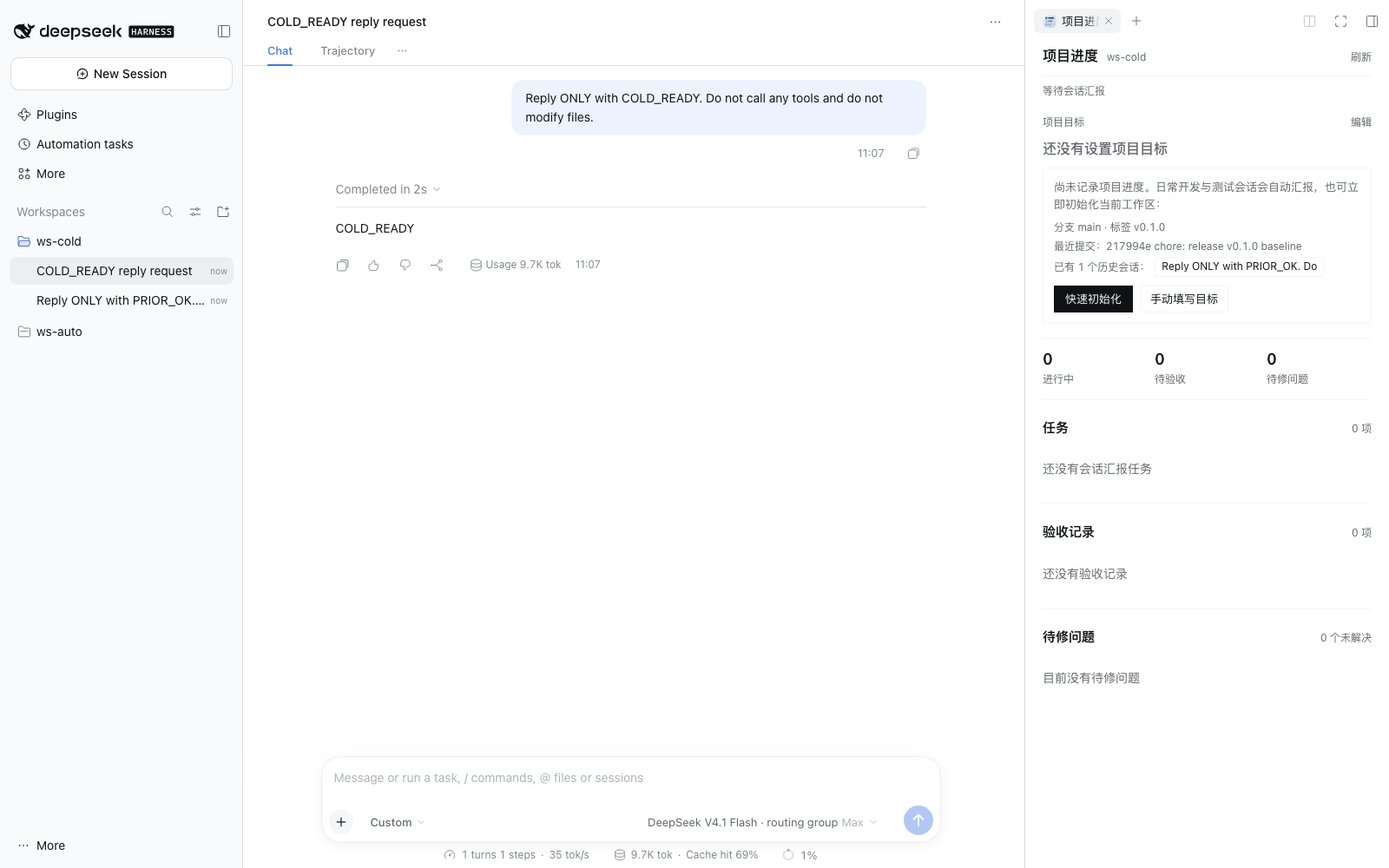
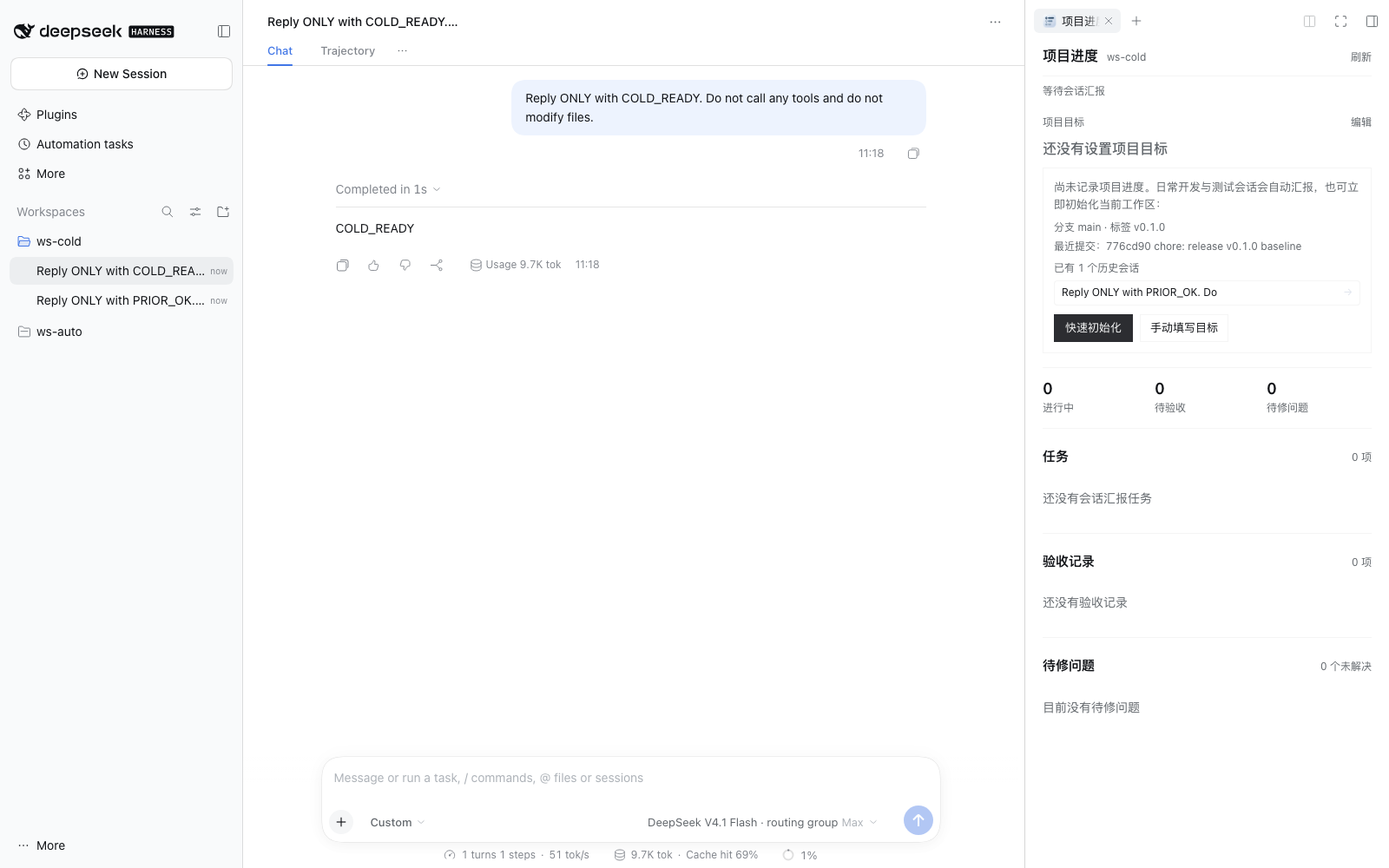
fix(ui): render historical sessions as expandable vertical list

diff --git a/plugin/lib/client.js b/plugin/lib/client.js
@@ -3,7 +3,7 @@ window.__ModuleLoader__.load({
   factory: (require) => {
     var module = { exports: {} };
     var exports = module.exports;
-    const STYLE_CSS = ".sl-root {\n  --slate-bg: var(--dsw-alias-bg-base, #ffffff);\n  --slate-surface: var(--dsw-alias-bg-layer-1, #f6f6f6);\n  --slate-surface-hover: var(--dsw-alias-bg-layer-2, #ededed);\n  --slate-ink: var(--dsw-alias-label-primary, #1f2328);\n  --slate-muted: var(--dsw-alias-label-secondary, #656d76);\n  --slate-dimmed: var(--dsw-alias-label-dimmed, #8b9199);\n  --slate-border: var(--dsw-alias-border-l1, #e5e5e5);\n  --slate-danger: var(--dsw-alias-state-error-primary, #b4534d);\n  --slate-warn: var(--dsw-alias-state-warn-primary, #a76d22);\n\n  box-sizing: border-box;\n  height: 100%;\n  overflow-y: auto;\n  overflow-x: hidden;\n  background: var(--slate-bg);\n  color: var(--slate-ink);\n  padding: 16px 20px 28px;\n  font-family: var(--dsw-font-family, -apple-system, BlinkMacSystemFont, \"PingFang SC\", sans-serif);\n  font-size: max(14px, var(--dsh-content-font-size, 14px));\n  line-height: 1.5;\n  font-variant-numeric: tabular-nums;\n  color-scheme: inherit;\n}\n\n.sl-root *,\n.sl-root *::before,\n.sl-root *::after {\n  box-sizing: border-box;\n}\n\n.sl-root :where(button, input, textarea, select) {\n  font: inherit;\n  color: var(--slate-ink);\n}\n\n.sl-root button {\n  cursor: pointer;\n}\n\n.sl-root button:disabled {\n  cursor: not-allowed;\n  opacity: 0.55;\n}\n\n.sl-root button:focus-visible,\n.sl-root input:focus-visible,\n.sl-root textarea:focus-visible,\n.sl-root select:focus-visible {\n  outline: 2px solid var(--slate-ink);\n  outline-offset: 2px;\n}\n\n.sl-mast {\n  display: flex;\n  align-items: baseline;\n  gap: 10px;\n  padding-bottom: 10px;\n  border-bottom: 1px solid var(--slate-border);\n}\n\n.sl-mast-title {\n  margin: 0;\n  font-size: 16px;\n  font-weight: 600;\n  line-height: 1.35;\n}\n\n.sl-workspace-tag {\n  font-size: 12px;\n  color: var(--slate-muted);\n  max-width: 190px;\n  overflow: hidden;\n  text-overflow: ellipsis;\n  white-space: nowrap;\n}\n\n.sl-text-btn {\n  border: 0;\n  background: none;\n  padding: 2px 0;\n  font-size: 12px;\n  color: var(--slate-muted);\n  text-decoration: none;\n}\n\n.sl-text-btn:hover {\n  color: var(--slate-ink);\n  text-decoration: underline;\n  text-underline-offset: 3px;\n}\n\n.sl-mast .sl-refresh {\n  margin-left: auto;\n}\n\n.sl-notice {\n  margin-top: 8px;\n  font-size: 12px;\n  color: var(--slate-muted);\n}\n\n.sl-notice.is-error {\n  color: var(--slate-danger);\n  background: var(--slate-surface);\n  border-left: 2px solid var(--slate-danger);\n  padding: 6px 10px;\n}\n\n.sl-goal {\n  padding: 16px 0;\n}\n\n.sl-kicker {\n  display: flex;\n  align-items: center;\n  gap: 10px;\n  font-size: 12px;\n  color: var(--slate-muted);\n}\n\n.sl-kicker-actions {\n  margin-left: auto;\n  display: flex;\n  align-items: center;\n  gap: 12px;\n}\n\n.sl-goal-title {\n  margin: 8px 0 6px;\n  font-size: 16px;\n  font-weight: 600;\n  line-height: 1.45;\n  text-wrap: pretty;\n}\n\n.sl-goal-empty {\n  color: var(--slate-muted);\n  font-weight: 500;\n}\n\n.sl-criteria-list {\n  margin: 6px 0 0;\n  padding-left: 18px;\n  font-size: 14px;\n  line-height: 1.5;\n  color: var(--slate-muted);\n}\n\n.sl-criteria-list li + li {\n  margin-top: 3px;\n}\n\n.sl-bootstrap {\n  margin-top: 10px;\n  padding: 12px;\n  background: var(--slate-surface);\n  border: 1px solid var(--slate-border);\n}\n\n.sl-bootstrap-desc {\n  margin: 0 0 8px;\n  font-size: 13px;\n  line-height: 1.5;\n  color: var(--slate-muted);\n}\n\n.sl-bootstrap-meta {\n  display: flex;\n  flex-direction: column;\n  gap: 4px;\n  margin-bottom: 10px;\n  font-size: 12px;\n  line-height: 1.45;\n  color: var(--slate-muted);\n}\n\n.sl-bootstrap-sessions {\n  display: flex;\n  flex-wrap: wrap;\n  align-items: center;\n  gap: 6px;\n}\n\n.sl-session-chip {\n  display: inline-block;\n  vertical-align: middle;\n  max-width: 196px;\n  padding: 2px 7px;\n  border: 1px solid var(--slate-border);\n  border-radius: 4px;\n  background: var(--slate-bg);\n  color: var(--slate-ink);\n  font-size: 12px;\n  line-height: 1.4;\n  overflow: hidden;\n  text-overflow: ellipsis;\n  white-space: nowrap;\n  text-decoration: none;\n}\n\n.sl-session-chip:hover {\n  background: var(--slate-surface-hover);\n  border-color: var(--slate-muted);\n  color: var(--slate-ink);\n  text-decoration: none;\n}\n\n.sl-bootstrap-actions {\n  display: flex;\n  flex-wrap: wrap;\n  gap: 8px;\n}\n\n.sl-override-chip {\n  display: inline-block;\n  font-size: 12px;\n  color: var(--slate-warn);\n}\n\n.sl-summary {\n  display: grid;\n  grid-template-columns: repeat(3, 1fr);\n  gap: 8px;\n  padding: 13px 0 14px;\n  border-top: 1px solid var(--slate-border);\n  border-bottom: 1px solid var(--slate-border);\n}\n\n.sl-summary-item {\n  display: flex;\n  flex-direction: column;\n  gap: 2px;\n}\n\n.sl-summary-item strong {\n  font-size: 18px;\n  font-weight: 600;\n  line-height: 1.25;\n}\n\n.sl-summary-item span {\n  font-size: 12px;\n  color: var(--slate-muted);\n}\n\n.sl-focus {\n  padding: 14px 0;\n  border-bottom: 1px solid var(--slate-border);\n}\n\n.sl-focus-head {\n  display: flex;\n  align-items: center;\n  justify-content: space-between;\n  font-size: 12px;\n  color: var(--slate-muted);\n}\n\n.sl-focus-severity {\n  color: var(--slate-danger);\n  font-weight: 600;\n}\n\n.sl-focus-title {\n  margin: 6px 0 8px;\n  font-size: 14px;\n  line-height: 1.55;\n}\n\n.sl-focus-link {\n  border: 0;\n  background: none;\n  padding: 0;\n  font-size: 13px;\n  color: var(--slate-ink);\n  font-weight: 500;\n}\n\n.sl-focus-link:hover {\n  text-decoration: underline;\n  text-underline-offset: 3px;\n}\n\n.sl-latest {\n  display: flex;\n  flex-direction: column;\n  gap: 4px;\n  padding: 13px 0;\n  border-bottom: 1px solid var(--slate-border);\n}\n\n.sl-latest-label {\n  font-size: 12px;\n  color: var(--slate-muted);\n}\n\n.sl-latest-link {\n  border: 0;\n  background: none;\n  padding: 0;\n  text-align: left;\n  font-size: 14px;\n  font-weight: 600;\n  color: var(--slate-ink);\n}\n\n.sl-latest-link:hover {\n  text-decoration: underline;\n  text-underline-offset: 3px;\n}\n\n.sl-latest-evidence {\n  font-size: 12px;\n  line-height: 1.5;\n  color: var(--slate-muted);\n}\n\n.sl-section-head {\n  display: flex;\n  align-items: baseline;\n  margin: 20px 0 12px;\n}\n\n.sl-section-head h3 {\n  margin: 0;\n  font-size: 15px;\n  font-weight: 600;\n}\n\n.sl-section-count {\n  margin-left: auto;\n  font-size: 12px;\n  color: var(--slate-muted);\n}\n\n.sl-timeline {\n  border-left: 1px solid var(--slate-border);\n  margin-left: 5px;\n}\n\n.sl-task {\n  position: relative;\n  padding: 0 0 20px 20px;\n}\n\n.sl-task:last-child {\n  padding-bottom: 8px;\n}\n\n.sl-task::before {\n  content: \"\";\n  position: absolute;\n  left: -4px;\n  top: 7px;\n  width: 7px;\n  height: 7px;\n  border-radius: 50%;\n  background: var(--slate-dimmed);\n}\n\n.sl-task.is-done::before {\n  background: var(--slate-muted);\n}\n\n.sl-task.is-waiting::before {\n  background: var(--slate-bg);\n  border: 2px solid var(--slate-warn);\n  left: -5px;\n  top: 6px;\n}\n\n.sl-task.is-failed::before {\n  background: var(--slate-danger);\n}\n\n.sl-task.is-verified::before {\n  content: \"✓\";\n  display: grid;\n  place-items: center;\n  width: 13px;\n  height: 13px;\n  left: -7px;\n  top: 4px;\n  background: var(--slate-ink);\n  color: var(--slate-bg);\n  font-size: 9px;\n  font-weight: 700;\n  line-height: 1;\n}\n\n.sl-task-head {\n  display: flex;\n  align-items: flex-start;\n  gap: 10px;\n}\n\n.sl-task-head-main {\n  min-width: 0;\n  flex: 1;\n}\n\n.sl-task-title {\n  display: block;\n  width: 100%;\n  border: 0;\n  background: none;\n  padding: 0;\n  text-align: left;\n  font-size: 15px;\n  font-weight: 600;\n  line-height: 1.4;\n  color: var(--slate-ink);\n}\n\n.sl-task-title:hover {\n  text-decoration: underline;\n  text-decoration-thickness: 1px;\n  text-underline-offset: 4px;\n}\n\n.sl-task-meta {\n  display: flex;\n  flex-wrap: wrap;\n  align-items: center;\n  gap: 6px;\n  margin-top: 4px;\n  font-size: 12px;\n  line-height: 1.45;\n  color: var(--slate-muted);\n}\n\n.sl-status-warn {\n  color: var(--slate-warn);\n}\n\n.sl-status-danger {\n  color: var(--slate-danger);\n}\n\n.sl-status-verified {\n  color: var(--slate-ink);\n  font-weight: 500;\n}\n\n.sl-task-pct {\n  font-size: 16px;\n  font-weight: 500;\n  white-space: nowrap;\n  color: var(--slate-ink);\n}\n\n.sl-deliverable {\n  margin-top: 7px;\n  font-size: 14px;\n  line-height: 1.55;\n}\n\n.sl-deliverable-label {\n  font-size: 12px;\n  color: var(--slate-muted);\n  margin-right: 6px;\n}\n\n.sl-track {\n  height: 2px;\n  background: var(--slate-border);\n  margin-top: 10px;\n  overflow: hidden;\n}\n\n.sl-track-fill {\n  display: block;\n  height: 100%;\n  background: var(--slate-muted);\n  transition: width 0.2s ease;\n}\n\n.sl-task.is-verified .sl-track-fill {\n  background: var(--slate-ink);\n}\n\n.sl-task-actions {\n  display: flex;\n  flex-wrap: wrap;\n  gap: 12px;\n  margin-top: 9px;\n}\n\n.sl-editor {\n  margin: 12px 0 4px;\n  padding: 12px;\n  background: var(--slate-surface);\n  border: 1px solid var(--slate-border);\n}\n\n.sl-goal-editor {\n  margin: 12px 0;\n}\n\n.sl-editor-head {\n  display: flex;\n  align-items: center;\n  justify-content: space-between;\n  font-size: 13px;\n  font-weight: 500;\n  color: var(--slate-ink);\n  margin-bottom: 10px;\n}\n\n.sl-field {\n  display: block;\n  margin-bottom: 10px;\n  font-size: 12px;\n  color: var(--slate-muted);\n}\n\n.sl-field input[type=\"text\"],\n.sl-field textarea,\n.sl-field select {\n  display: block;\n  width: 100%;\n  margin-top: 5px;\n  padding: 7px 9px;\n  border: 1px solid var(--slate-border);\n  background: var(--slate-bg);\n  color: var(--slate-ink);\n  font-size: 14px;\n  line-height: 1.45;\n  border-radius: 0;\n}\n\n.sl-field textarea {\n  resize: vertical;\n}\n\n.sl-editor input[type=\"range\"] {\n  display: block;\n  width: 100%;\n  margin: 8px 0 12px;\n  accent-color: var(--slate-ink);\n}\n\n.sl-field-grid {\n  display: grid;\n  grid-template-columns: 74px 1fr;\n  gap: 8px;\n}\n\n.sl-editor-note {\n  font-size: 12px;\n  color: var(--slate-muted);\n  margin-top: 4px;\n}\n\n.sl-editor-actions {\n  display: flex;\n  justify-content: flex-end;\n  gap: 8px;\n  margin-top: 12px;\n}\n\n.sl-btn {\n  border: 1px solid var(--slate-border);\n  background: var(--slate-bg);\n  color: var(--slate-ink);\n  padding: 5px 11px;\n  font-size: 13px;\n}\n\n.sl-btn:hover {\n  background: var(--slate-surface-hover);\n}\n\n.sl-root .sl-btn-primary {\n  border: 1px solid var(--slate-ink);\n  background: var(--slate-ink);\n  color: var(--slate-bg);\n  padding: 5px 12px;\n  font-size: 13px;\n}\n\n.sl-btn-primary:hover {\n  opacity: 0.88;\n}\n\n.sl-section-rule {\n  border-top: 1px solid var(--slate-border);\n  margin-top: 16px;\n}\n\n.sl-list-row {\n  border-bottom: 1px solid var(--slate-border);\n}\n\n.sl-row-trigger {\n  display: grid;\n  grid-template-columns: auto 1fr auto;\n  align-items: baseline;\n  gap: 8px;\n  width: 100%;\n  padding: 10px 0;\n  border: 0;\n  background: none;\n  text-align: left;\n  font-size: 14px;\n  line-height: 1.45;\n}\n\n.sl-row-trigger:hover {\n  background: var(--slate-surface);\n}\n\n.sl-check-glyph {\n  font-weight: 600;\n  width: 16px;\n  text-align: center;\n}\n\n.sl-check.is-passed .sl-check-glyph {\n  color: var(--slate-ink);\n}\n\n.sl-check.is-failed .sl-check-glyph {\n  color: var(--slate-danger);\n}\n\n.sl-check.is-running .sl-check-glyph {\n  color: var(--slate-warn);\n}\n\n.sl-check.is-todo .sl-check-glyph {\n  color: var(--slate-muted);\n}\n\n.sl-row-label {\n  font-size: 12px;\n  color: var(--slate-muted);\n  white-space: nowrap;\n}\n\n.sl-issue-sev {\n  font-size: 12px;\n  font-weight: 600;\n}\n\n.sl-issue-sev.is-high {\n  color: var(--slate-danger);\n}\n\n.sl-issue-sev.is-low {\n  color: var(--slate-muted);\n}\n\n.sl-issue.is-resolved .sl-row-title {\n  color: var(--slate-muted);\n  text-decoration: line-through;\n}\n\n.sl-detail-panel {\n  padding: 4px 0 12px 24px;\n  font-size: 13px;\n  line-height: 1.6;\n  color: var(--slate-muted);\n}\n\n.sl-detail-meta {\n  display: flex;\n  flex-wrap: wrap;\n  gap: 10px;\n  margin-top: 6px;\n  font-size: 12px;\n  color: var(--slate-muted);\n}\n\n.sl-code-line {\n  margin: 6px 0;\n  padding: 6px 8px;\n  background: var(--slate-surface);\n  border-left: 2px solid var(--slate-border);\n  font-family: var(--dsh-font-family-code, ui-monospace, SFMono-Regular, Menlo, monospace);\n  font-size: 12px;\n  color: var(--slate-ink);\n  word-break: break-all;\n}\n\n.sl-empty {\n  padding: 14px 0;\n  font-size: 14px;\n  color: var(--slate-muted);\n}\n\n.sl-activity {\n  margin-top: 18px;\n  padding-top: 14px;\n  border-top: 1px solid var(--slate-border);\n}\n\n.sl-activity h3 {\n  margin: 0 0 10px;\n  font-size: 15px;\n  font-weight: 600;\n}\n\n.sl-activity-item {\n  padding: 0 0 8px 12px;\n  font-size: 13px;\n  line-height: 1.5;\n  color: var(--slate-muted);\n}\n\n@media (max-width: 340px) {\n  .sl-root {\n    padding: 14px;\n  }\n  .sl-workspace-tag {\n    display: none;\n  }\n  .sl-field-grid {\n    grid-template-columns: 1fr;\n  }\n}\n\n.sl-tab-title {\n  display: inline-flex;\n  align-items: center;\n  gap: 6px;\n  line-height: 1;\n}\n\n.sl-tab-icon {\n  width: 16px;\n  height: 16px;\n  flex: none;\n  display: block;\n  object-fit: contain;\n}\n\n.sl-tab-icon-dark {\n  display: none;\n}\n\nbody[data-ds-dark-theme] .sl-tab-icon-light {\n  display: none;\n}\n\nbody[data-ds-dark-theme] .sl-tab-icon-dark {\n  display: block;\n}\n";
+    const STYLE_CSS = ".sl-root {\n  --slate-bg: var(--dsw-alias-bg-base, #ffffff);\n  --slate-surface: var(--dsw-alias-bg-layer-1, #f6f6f6);\n  --slate-surface-hover: var(--dsw-alias-bg-layer-2, #ededed);\n  --slate-ink: var(--dsw-alias-label-primary, #1f2328);\n  --slate-muted: var(--dsw-alias-label-secondary, #656d76);\n  --slate-dimmed: var(--dsw-alias-label-dimmed, #8b9199);\n  --slate-border: var(--dsw-alias-border-l1, #e5e5e5);\n  --slate-danger: var(--dsw-alias-state-error-primary, #b4534d);\n  --slate-warn: var(--dsw-alias-state-warn-primary, #a76d22);\n\n  box-sizing: border-box;\n  height: 100%;\n  overflow-y: auto;\n  overflow-x: hidden;\n  background: var(--slate-bg);\n  color: var(--slate-ink);\n  padding: 16px 20px 28px;\n  font-family: var(--dsw-font-family, -apple-system, BlinkMacSystemFont, \"PingFang SC\", sans-serif);\n  font-size: max(14px, var(--dsh-content-font-size, 14px));\n  line-height: 1.5;\n  font-variant-numeric: tabular-nums;\n  color-scheme: inherit;\n}\n\n.sl-root *,\n.sl-root *::before,\n.sl-root *::after {\n  box-sizing: border-box;\n}\n\n.sl-root :where(button, input, textarea, select) {\n  font: inherit;\n  color: var(--slate-ink);\n}\n\n.sl-root button {\n  cursor: pointer;\n}\n\n.sl-root button:disabled {\n  cursor: not-allowed;\n  opacity: 0.55;\n}\n\n.sl-root button:focus-visible,\n.sl-root input:focus-visible,\n.sl-root textarea:focus-visible,\n.sl-root select:focus-visible {\n  outline: 2px solid var(--slate-ink);\n  outline-offset: 2px;\n}\n\n.sl-mast {\n  display: flex;\n  align-items: baseline;\n  gap: 10px;\n  padding-bottom: 10px;\n  border-bottom: 1px solid var(--slate-border);\n}\n\n.sl-mast-title {\n  margin: 0;\n  font-size: 16px;\n  font-weight: 600;\n  line-height: 1.35;\n}\n\n.sl-workspace-tag {\n  font-size: 12px;\n  color: var(--slate-muted);\n  max-width: 190px;\n  overflow: hidden;\n  text-overflow: ellipsis;\n  white-space: nowrap;\n}\n\n.sl-text-btn {\n  border: 0;\n  background: none;\n  padding: 2px 0;\n  font-size: 12px;\n  color: var(--slate-muted);\n  text-decoration: none;\n}\n\n.sl-text-btn:hover {\n  color: var(--slate-ink);\n  text-decoration: underline;\n  text-underline-offset: 3px;\n}\n\n.sl-mast .sl-refresh {\n  margin-left: auto;\n}\n\n.sl-notice {\n  margin-top: 8px;\n  font-size: 12px;\n  color: var(--slate-muted);\n}\n\n.sl-notice.is-error {\n  color: var(--slate-danger);\n  background: var(--slate-surface);\n  border-left: 2px solid var(--slate-danger);\n  padding: 6px 10px;\n}\n\n.sl-goal {\n  padding: 16px 0;\n}\n\n.sl-kicker {\n  display: flex;\n  align-items: center;\n  gap: 10px;\n  font-size: 12px;\n  color: var(--slate-muted);\n}\n\n.sl-kicker-actions {\n  margin-left: auto;\n  display: flex;\n  align-items: center;\n  gap: 12px;\n}\n\n.sl-goal-title {\n  margin: 8px 0 6px;\n  font-size: 16px;\n  font-weight: 600;\n  line-height: 1.45;\n  text-wrap: pretty;\n}\n\n.sl-goal-empty {\n  color: var(--slate-muted);\n  font-weight: 500;\n}\n\n.sl-criteria-list {\n  margin: 6px 0 0;\n  padding-left: 18px;\n  font-size: 14px;\n  line-height: 1.5;\n  color: var(--slate-muted);\n}\n\n.sl-criteria-list li + li {\n  margin-top: 3px;\n}\n\n.sl-bootstrap {\n  margin-top: 10px;\n  padding: 12px;\n  background: var(--slate-surface);\n  border: 1px solid var(--slate-border);\n}\n\n.sl-bootstrap-desc {\n  margin: 0 0 8px;\n  font-size: 13px;\n  line-height: 1.5;\n  color: var(--slate-muted);\n}\n\n.sl-bootstrap-meta {\n  display: flex;\n  flex-direction: column;\n  gap: 4px;\n  margin-bottom: 10px;\n  font-size: 12px;\n  line-height: 1.45;\n  color: var(--slate-muted);\n}\n\n.sl-bootstrap-sessions {\n  display: flex;\n  flex-direction: column;\n  gap: 6px;\n  margin-top: 4px;\n}\n\n.sl-bootstrap-sessions-head {\n  display: flex;\n  align-items: center;\n  justify-content: space-between;\n  gap: 8px;\n}\n\n.sl-bootstrap-sessions-list {\n  display: flex;\n  flex-direction: column;\n  gap: 4px;\n}\n\n.sl-bootstrap-sessions-list.is-expanded {\n  max-height: 210px;\n  overflow-y: auto;\n}\n\n.sl-session-chip {\n  display: flex;\n  align-items: center;\n  justify-content: space-between;\n  gap: 8px;\n  width: 100%;\n  padding: 5px 8px;\n  border: 1px solid var(--slate-border);\n  border-radius: 5px;\n  background: var(--slate-bg);\n  color: var(--slate-ink);\n  font-size: 12px;\n  line-height: 1.4;\n  text-align: left;\n  text-decoration: none;\n}\n\n.sl-session-chip-title {\n  flex: 1;\n  min-width: 0;\n  overflow: hidden;\n  text-overflow: ellipsis;\n  white-space: nowrap;\n}\n\n.sl-session-chip::after {\n  content: \"→\";\n  flex-shrink: 0;\n  color: var(--slate-dimmed);\n}\n\n.sl-session-chip:hover {\n  background: var(--slate-surface-hover);\n  border-color: var(--slate-muted);\n  color: var(--slate-ink);\n  text-decoration: none;\n}\n\n.sl-session-chip:hover::after {\n  color: var(--slate-ink);\n}\n\n.sl-bootstrap-actions {\n  display: flex;\n  flex-wrap: wrap;\n  gap: 8px;\n}\n\n.sl-override-chip {\n  display: inline-block;\n  font-size: 12px;\n  color: var(--slate-warn);\n}\n\n.sl-summary {\n  display: grid;\n  grid-template-columns: repeat(3, 1fr);\n  gap: 8px;\n  padding: 13px 0 14px;\n  border-top: 1px solid var(--slate-border);\n  border-bottom: 1px solid var(--slate-border);\n}\n\n.sl-summary-item {\n  display: flex;\n  flex-direction: column;\n  gap: 2px;\n}\n\n.sl-summary-item strong {\n  font-size: 18px;\n  font-weight: 600;\n  line-height: 1.25;\n}\n\n.sl-summary-item span {\n  font-size: 12px;\n  color: var(--slate-muted);\n}\n\n.sl-focus {\n  padding: 14px 0;\n  border-bottom: 1px solid var(--slate-border);\n}\n\n.sl-focus-head {\n  display: flex;\n  align-items: center;\n  justify-content: space-between;\n  font-size: 12px;\n  color: var(--slate-muted);\n}\n\n.sl-focus-severity {\n  color: var(--slate-danger);\n  font-weight: 600;\n}\n\n.sl-focus-title {\n  margin: 6px 0 8px;\n  font-size: 14px;\n  line-height: 1.55;\n}\n\n.sl-focus-link {\n  border: 0;\n  background: none;\n  padding: 0;\n  font-size: 13px;\n  color: var(--slate-ink);\n  font-weight: 500;\n}\n\n.sl-focus-link:hover {\n  text-decoration: underline;\n  text-underline-offset: 3px;\n}\n\n.sl-latest {\n  display: flex;\n  flex-direction: column;\n  gap: 4px;\n  padding: 13px 0;\n  border-bottom: 1px solid var(--slate-border);\n}\n\n.sl-latest-label {\n  font-size: 12px;\n  color: var(--slate-muted);\n}\n\n.sl-latest-link {\n  border: 0;\n  background: none;\n  padding: 0;\n  text-align: left;\n  font-size: 14px;\n  font-weight: 600;\n  color: var(--slate-ink);\n}\n\n.sl-latest-link:hover {\n  text-decoration: underline;\n  text-underline-offset: 3px;\n}\n\n.sl-latest-evidence {\n  font-size: 12px;\n  line-height: 1.5;\n  color: var(--slate-muted);\n}\n\n.sl-section-head {\n  display: flex;\n  align-items: baseline;\n  margin: 20px 0 12px;\n}\n\n.sl-section-head h3 {\n  margin: 0;\n  font-size: 15px;\n  font-weight: 600;\n}\n\n.sl-section-count {\n  margin-left: auto;\n  font-size: 12px;\n  color: var(--slate-muted);\n}\n\n.sl-timeline {\n  border-left: 1px solid var(--slate-border);\n  margin-left: 5px;\n}\n\n.sl-task {\n  position: relative;\n  padding: 0 0 20px 20px;\n}\n\n.sl-task:last-child {\n  padding-bottom: 8px;\n}\n\n.sl-task::before {\n  content: \"\";\n  position: absolute;\n  left: -4px;\n  top: 7px;\n  width: 7px;\n  height: 7px;\n  border-radius: 50%;\n  background: var(--slate-dimmed);\n}\n\n.sl-task.is-done::before {\n  background: var(--slate-muted);\n}\n\n.sl-task.is-waiting::before {\n  background: var(--slate-bg);\n  border: 2px solid var(--slate-warn);\n  left: -5px;\n  top: 6px;\n}\n\n.sl-task.is-failed::before {\n  background: var(--slate-danger);\n}\n\n.sl-task.is-verified::before {\n  content: \"✓\";\n  display: grid;\n  place-items: center;\n  width: 13px;\n  height: 13px;\n  left: -7px;\n  top: 4px;\n  background: var(--slate-ink);\n  color: var(--slate-bg);\n  font-size: 9px;\n  font-weight: 700;\n  line-height: 1;\n}\n\n.sl-task-head {\n  display: flex;\n  align-items: flex-start;\n  gap: 10px;\n}\n\n.sl-task-head-main {\n  min-width: 0;\n  flex: 1;\n}\n\n.sl-task-title {\n  display: block;\n  width: 100%;\n  border: 0;\n  background: none;\n  padding: 0;\n  text-align: left;\n  font-size: 15px;\n  font-weight: 600;\n  line-height: 1.4;\n  color: var(--slate-ink);\n}\n\n.sl-task-title:hover {\n  text-decoration: underline;\n  text-decoration-thickness: 1px;\n  text-underline-offset: 4px;\n}\n\n.sl-task-meta {\n  display: flex;\n  flex-wrap: wrap;\n  align-items: center;\n  gap: 6px;\n  margin-top: 4px;\n  font-size: 12px;\n  line-height: 1.45;\n  color: var(--slate-muted);\n}\n\n.sl-status-warn {\n  color: var(--slate-warn);\n}\n\n.sl-status-danger {\n  color: var(--slate-danger);\n}\n\n.sl-status-verified {\n  color: var(--slate-ink);\n  font-weight: 500;\n}\n\n.sl-task-pct {\n  font-size: 16px;\n  font-weight: 500;\n  white-space: nowrap;\n  color: var(--slate-ink);\n}\n\n.sl-deliverable {\n  margin-top: 7px;\n  font-size: 14px;\n  line-height: 1.55;\n}\n\n.sl-deliverable-label {\n  font-size: 12px;\n  color: var(--slate-muted);\n  margin-right: 6px;\n}\n\n.sl-track {\n  height: 2px;\n  background: var(--slate-border);\n  margin-top: 10px;\n  overflow: hidden;\n}\n\n.sl-track-fill {\n  display: block;\n  height: 100%;\n  background: var(--slate-muted);\n  transition: width 0.2s ease;\n}\n\n.sl-task.is-verified .sl-track-fill {\n  background: var(--slate-ink);\n}\n\n.sl-task-actions {\n  display: flex;\n  flex-wrap: wrap;\n  gap: 12px;\n  margin-top: 9px;\n}\n\n.sl-editor {\n  margin: 12px 0 4px;\n  padding: 12px;\n  background: var(--slate-surface);\n  border: 1px solid var(--slate-border);\n}\n\n.sl-goal-editor {\n  margin: 12px 0;\n}\n\n.sl-editor-head {\n  display: flex;\n  align-items: center;\n  justify-content: space-between;\n  font-size: 13px;\n  font-weight: 500;\n  color: var(--slate-ink);\n  margin-bottom: 10px;\n}\n\n.sl-field {\n  display: block;\n  margin-bottom: 10px;\n  font-size: 12px;\n  color: var(--slate-muted);\n}\n\n.sl-field input[type=\"text\"],\n.sl-field textarea,\n.sl-field select {\n  display: block;\n  width: 100%;\n  margin-top: 5px;\n  padding: 7px 9px;\n  border: 1px solid var(--slate-border);\n  background: var(--slate-bg);\n  color: var(--slate-ink);\n  font-size: 14px;\n  line-height: 1.45;\n  border-radius: 0;\n}\n\n.sl-field textarea {\n  resize: vertical;\n}\n\n.sl-editor input[type=\"range\"] {\n  display: block;\n  width: 100%;\n  margin: 8px 0 12px;\n  accent-color: var(--slate-ink);\n}\n\n.sl-field-grid {\n  display: grid;\n  grid-template-columns: 74px 1fr;\n  gap: 8px;\n}\n\n.sl-editor-note {\n  font-size: 12px;\n  color: var(--slate-muted);\n  margin-top: 4px;\n}\n\n.sl-editor-actions {\n  display: flex;\n  justify-content: flex-end;\n  gap: 8px;\n  margin-top: 12px;\n}\n\n.sl-btn {\n  border: 1px solid var(--slate-border);\n  background: var(--slate-bg);\n  color: var(--slate-ink);\n  padding: 5px 11px;\n  font-size: 13px;\n}\n\n.sl-btn:hover {\n  background: var(--slate-surface-hover);\n}\n\n.sl-root .sl-btn-primary {\n  border: 1px solid var(--slate-ink);\n  background: var(--slate-ink);\n  color: var(--slate-bg);\n  padding: 5px 12px;\n  font-size: 13px;\n}\n\n.sl-btn-primary:hover {\n  opacity: 0.88;\n}\n\n.sl-section-rule {\n  border-top: 1px solid var(--slate-border);\n  margin-top: 16px;\n}\n\n.sl-list-row {\n  border-bottom: 1px solid var(--slate-border);\n}\n\n.sl-row-trigger {\n  display: grid;\n  grid-template-columns: auto 1fr auto;\n  align-items: baseline;\n  gap: 8px;\n  width: 100%;\n  padding: 10px 0;\n  border: 0;\n  background: none;\n  text-align: left;\n  font-size: 14px;\n  line-height: 1.45;\n}\n\n.sl-row-trigger:hover {\n  background: var(--slate-surface);\n}\n\n.sl-check-glyph {\n  font-weight: 600;\n  width: 16px;\n  text-align: center;\n}\n\n.sl-check.is-passed .sl-check-glyph {\n  color: var(--slate-ink);\n}\n\n.sl-check.is-failed .sl-check-glyph {\n  color: var(--slate-danger);\n}\n\n.sl-check.is-running .sl-check-glyph {\n  color: var(--slate-warn);\n}\n\n.sl-check.is-todo .sl-check-glyph {\n  color: var(--slate-muted);\n}\n\n.sl-row-label {\n  font-size: 12px;\n  color: var(--slate-muted);\n  white-space: nowrap;\n}\n\n.sl-issue-sev {\n  font-size: 12px;\n  font-weight: 600;\n}\n\n.sl-issue-sev.is-high {\n  color: var(--slate-danger);\n}\n\n.sl-issue-sev.is-low {\n  color: var(--slate-muted);\n}\n\n.sl-issue.is-resolved .sl-row-title {\n  color: var(--slate-muted);\n  text-decoration: line-through;\n}\n\n.sl-detail-panel {\n  padding: 4px 0 12px 24px;\n  font-size: 13px;\n  line-height: 1.6;\n  color: var(--slate-muted);\n}\n\n.sl-detail-meta {\n  display: flex;\n  flex-wrap: wrap;\n  gap: 10px;\n  margin-top: 6px;\n  font-size: 12px;\n  color: var(--slate-muted);\n}\n\n.sl-code-line {\n  margin: 6px 0;\n  padding: 6px 8px;\n  background: var(--slate-surface);\n  border-left: 2px solid var(--slate-border);\n  font-family: var(--dsh-font-family-code, ui-monospace, SFMono-Regular, Menlo, monospace);\n  font-size: 12px;\n  color: var(--slate-ink);\n  word-break: break-all;\n}\n\n.sl-empty {\n  padding: 14px 0;\n  font-size: 14px;\n  color: var(--slate-muted);\n}\n\n.sl-activity {\n  margin-top: 18px;\n  padding-top: 14px;\n  border-top: 1px solid var(--slate-border);\n}\n\n.sl-activity h3 {\n  margin: 0 0 10px;\n  font-size: 15px;\n  font-weight: 600;\n}\n\n.sl-activity-item {\n  padding: 0 0 8px 12px;\n  font-size: 13px;\n  line-height: 1.5;\n  color: var(--slate-muted);\n}\n\n@media (max-width: 340px) {\n  .sl-root {\n    padding: 14px;\n  }\n  .sl-workspace-tag {\n    display: none;\n  }\n  .sl-field-grid {\n    grid-template-columns: 1fr;\n  }\n}\n\n.sl-tab-title {\n  display: inline-flex;\n  align-items: center;\n  gap: 6px;\n  line-height: 1;\n}\n\n.sl-tab-icon {\n  width: 16px;\n  height: 16px;\n  flex: none;\n  display: block;\n  object-fit: contain;\n}\n\n.sl-tab-icon-dark {\n  display: none;\n}\n\nbody[data-ds-dark-theme] .sl-tab-icon-light {\n  display: none;\n}\n\nbody[data-ds-dark-theme] .sl-tab-icon-dark {\n  display: block;\n}\n";
[2 lines of base64/hex data omitted]
 const React = require('react');
@@ -169,12 +169,13 @@ function App(props) {
     items.sort((a, b) => b.ts - a.ts);
     return {
       totalSessions: items.length,
-      recentSessions: items.slice(0, 5),
+      recentSessions: items,
     };
   }, [sessionsById, workspaceItems, archivedSessionIds, sessionId, workspacePath]);
 
   const [project, setProject] = useState(EMPTY_VIEW);
   const [workspaceContext, setWorkspaceContext] = useState(null);
+  const [showAllSessions, setShowAllSessions] = useState(false);
   const [initStatus, setInitStatus] = useState('');
   const [error, setError] = useState('');
   const [busy, setBusy] = useState(false);
@@ -229,6 +230,10 @@ function App(props) {
       // Zero-token workspace context is advisory only; keep empty state interactive on failure.
     }
   }, [callRpc, sessionId, workspacePath]);
+
+  useEffect(() => {
+    setShowAllSessions(false);
+  }, [sessionId, workspacePath]);
 
   useEffect(() => {
     latestRevisionRef.current = -1;
@@ -603,6 +608,8 @@ function App(props) {
                   const historicalSessions = liveSessionSnapshot
                     ? liveSessionSnapshot.recentSessions
                     : (workspaceContext?.recentSessions || []);
+                  const visibleSessions = showAllSessions ? historicalSessions : historicalSessions.slice(0, 3);
+                  const hiddenSessionCount = Math.max(0, historicalSessions.length - 3);
                   return h('div', { className: 'sl-bootstrap' },
                     h('p', { className: 'sl-bootstrap-desc' }, '尚未记录项目进度。日常开发与测试会话会自动汇报，也可立即初始化当前工作区：'),
                     (workspaceContext?.git || historicalSessions.length > 0)
@@ -619,15 +626,28 @@ function App(props) {
                             : null,
                           historicalSessions.length > 0
                             ? h('div', { className: 'sl-bootstrap-sessions' },
-                                h('span', null, `已有 ${historicalTotal} 个历史会话：`),
-                                historicalSessions.slice(0, 3).map((item) =>
-                                  h('button', {
-                                    key: item.id,
-                                    type: 'button',
-                                    className: 'sl-session-chip',
-                                    title: `${item.title} (${item.label})`,
-                                    onClick: () => openSession(item.id),
-                                  }, item.title)
+                                h('div', { className: 'sl-bootstrap-sessions-head' },
+                                  h('span', null, `已有 ${historicalTotal} 个历史会话`),
+                                  hiddenSessionCount > 0
+                                    ? h('button', {
+                                        type: 'button',
+                                        className: 'sl-text-btn',
+                                        onClick: () => setShowAllSessions((prev) => !prev),
+                                      }, showAllSessions ? '收起' : `展开其余 ${hiddenSessionCount} 个`)
+                                    : null
+                                ),
+                                h('div', { className: `sl-bootstrap-sessions-list ${showAllSessions ? 'is-expanded' : ''}` },
+                                  visibleSessions.map((item) =>
+                                    h('button', {
+                                      key: item.id,
+                                      type: 'button',
+                                      className: 'sl-session-chip',
+                                      title: `${item.title} (${item.label})`,
+                                      onClick: () => openSession(item.id),
+                                    },
+                                      h('span', { className: 'sl-session-chip-title' }, item.title)
+                                    )
+                                  )
                                 )
                               )
                             : null

diff --git a/plugin/src/client.js b/plugin/src/client.js
@@ -161,12 +161,13 @@ function App(props) {
     items.sort((a, b) => b.ts - a.ts);
     return {
       totalSessions: items.length,
-      recentSessions: items.slice(0, 5),
+      recentSessions: items,
     };
   }, [sessionsById, workspaceItems, archivedSessionIds, sessionId, workspacePath]);
 
   const [project, setProject] = useState(EMPTY_VIEW);
   const [workspaceContext, setWorkspaceContext] = useState(null);
+  const [showAllSessions, setShowAllSessions] = useState(false);
   const [initStatus, setInitStatus] = useState('');
   const [error, setError] = useState('');
   const [busy, setBusy] = useState(false);
@@ -221,6 +222,10 @@ function App(props) {
       // Zero-token workspace context is advisory only; keep empty state interactive on failure.
     }
   }, [callRpc, sessionId, workspacePath]);
+
+  useEffect(() => {
+    setShowAllSessions(false);
+  }, [sessionId, workspacePath]);
 
   useEffect(() => {
     latestRevisionRef.current = -1;
@@ -595,6 +600,8 @@ function App(props) {
                   const historicalSessions = liveSessionSnapshot
                     ? liveSessionSnapshot.recentSessions
                     : (workspaceContext?.recentSessions || []);
+                  const visibleSessions = showAllSessions ? historicalSessions : historicalSessions.slice(0, 3);
+                  const hiddenSessionCount = Math.max(0, historicalSessions.length - 3);
                   return h('div', { className: 'sl-bootstrap' },
                     h('p', { className: 'sl-bootstrap-desc' }, '尚未记录项目进度。日常开发与测试会话会自动汇报，也可立即初始化当前工作区：'),
                     (workspaceContext?.git || historicalSessions.length > 0)
@@ -611,15 +618,28 @@ function App(props) {
                             : null,
                           historicalSessions.length > 0
                             ? h('div', { className: 'sl-bootstrap-sessions' },
-                                h('span', null, `已有 ${historicalTotal} 个历史会话：`),
-                                historicalSessions.slice(0, 3).map((item) =>
-                                  h('button', {
-                                    key: item.id,
-                                    type: 'button',
-                                    className: 'sl-session-chip',
-                                    title: `${item.title} (${item.label})`,
-                                    onClick: () => openSession(item.id),
-                                  }, item.title)
+                                h('div', { className: 'sl-bootstrap-sessions-head' },
+                                  h('span', null, `已有 ${historicalTotal} 个历史会话`),
+                                  hiddenSessionCount > 0
+                                    ? h('button', {
+                                        type: 'button',
+                                        className: 'sl-text-btn',
+                                        onClick: () => setShowAllSessions((prev) => !prev),
+                                      }, showAllSessions ? '收起' : `展开其余 ${hiddenSessionCount} 个`)
+                                    : null
+                                ),
+                                h('div', { className: `sl-bootstrap-sessions-list ${showAllSessions ? 'is-expanded' : ''}` },
+                                  visibleSessions.map((item) =>
+                                    h('button', {
+                                      key: item.id,
+                                      type: 'button',
+                                      className: 'sl-session-chip',
+                                      title: `${item.title} (${item.label})`,
+                                      onClick: () => openSession(item.id),
+                                    },
+                                      h('span', { className: 'sl-session-chip-title' }, item.title)
+                                    )
+                                  )
                                 )
                               )
                             : null

diff --git a/plugin/src/styles.css b/plugin/src/styles.css
@@ -177,26 +177,58 @@
 
 .sl-bootstrap-sessions {
   display: flex;
-  flex-wrap: wrap;
-  align-items: center;
+  flex-direction: column;
   gap: 6px;
+  margin-top: 4px;
+}
+
+.sl-bootstrap-sessions-head {
+  display: flex;
+  align-items: center;
+  justify-content: space-between;
+  gap: 8px;
+}
+
+.sl-bootstrap-sessions-list {
+  display: flex;
+  flex-direction: column;
+  gap: 4px;
+}
+
+.sl-bootstrap-sessions-list.is-expanded {
+  max-height: 210px;
+  overflow-y: auto;
 }
 
 .sl-session-chip {
-  display: inline-block;
-  vertical-align: middle;
-  max-width: 196px;
-  padding: 2px 7px;
+  display: flex;
+  align-items: center;
+  justify-content: space-between;
+  gap: 8px;
+  width: 100%;
+  padding: 5px 8px;
   border: 1px solid var(--slate-border);
-  border-radius: 4px;
+  border-radius: 5px;
   background: var(--slate-bg);
   color: var(--slate-ink);
   font-size: 12px;
   line-height: 1.4;
+  text-align: left;
+  text-decoration: none;
+}
+
+.sl-session-chip-title {
+  flex: 1;
+  min-width: 0;
   overflow: hidden;
   text-overflow: ellipsis;
   white-space: nowrap;
-  text-decoration: none;
+}
+
+.sl-session-chip::after {
+  content: "→";
+  flex-shrink: 0;
+  color: var(--slate-dimmed);
 }
 
 .sl-session-chip:hover {
@@ -204,6 +236,10 @@
   border-color: var(--slate-muted);
   color: var(--slate-ink);
   text-decoration: none;
+}
+
+.sl-session-chip:hover::after {
+  color: var(--slate-ink);
 }
 
 .sl-bootstrap-actions {

diff --git a/plugin/src/bootstrap.js b/plugin/src/bootstrap.js
@@ -226,7 +226,7 @@ export async function collectWorkspaceSessions(ctx, rawWorkspacePath, excludeSes
   return {
     workspaceId,
     totalSessions: filteredIds.length,
-    recentSessions: resolved.slice(0, MAX_RECENT_SESSIONS),
+    recentSessions: resolved.slice(0, MAX_CANDIDATE_SESSIONS),
   };
 }
 
@@ -291,8 +291,9 @@ export function buildQuickInitPrompt(canonicalWorkspacePath, wsContext) {
   }
 
   if (wsContext?.recentSessions?.length > 0) {
+    const promptSessions = wsContext.recentSessions.slice(0, MAX_RECENT_SESSIONS);
     lines.push(
-      `- 历史会话标题参考：${wsContext.recentSessions.map((s) => `${s.label}「${s.title}」`).join('；')}`
+      `- 历史会话标题参考：${promptSessions.map((s) => `${s.label}「${s.title}」`).join('；')}`
     );
   }
 

diff --git a/HANDOFF.md b/HANDOFF.md
@@ -41,16 +41,16 @@ npm pack --dry-run
 - **发布前逻辑修复与元数据收口**：
   - `src/domain.js`：同一 `taskId` 收到后续会话真实 `passed`/`failed` 检查时自动清理同任务遗留未执行 `todo` 占位（保留其他会话真实证据，支持按 `check.id` 跨会话精确替换）。
   - `src/prompt.js` & `src/tool.js`：向会话同步当前项目级 `acceptanceCriteria` 与 `todo` 待检查清单，并指导子任务汇报省略 `projectGoal`/`acceptanceCriteria`，防止单个子任务覆盖项目级验收标准。
-  - `src/bootstrap.js` & `src/client.js`：通过 `typertGateway` 查询 `session/list`（`8000ms` 超时），过滤 `workspaceRegistry.archivedSessionIds`、`blank` 草稿、`origin === 'subagent'` 与已缺失日志的旧会话 ID，并修复 newest-first `sessionIds` 截断排序；客户端同时直接订阅 `useSessions((s) => s?.byId)` 与 `useWorkspaces`（`items` / `archivedSessionIds`）同步左侧栏真实标题并添加单色可点击 `.sl-session-chip` 样式。
+  - `src/bootstrap.js` & `src/client.js`：通过 `typertGateway` 查询 `session/list`（`8000ms` 超时），过滤 `workspaceRegistry.archivedSessionIds`、`blank` 草稿、`origin === 'subagent'` 与已缺失日志的旧会话 ID，并修复 newest-first `sessionIds` 截断排序；客户端同时直接订阅 `useSessions((s) => s?.byId)` 与 `useWorkspaces`（`items` / `archivedSessionIds`）同步左侧栏真实标题，空态历史会话改用全宽纵向行表展示并默认显示 3 条，支持 `展开其余 N 个` / `收起` 查看全部，Quick Init prompt 仍严格上限 5 条引用。
   - `locale/{en,zh}.json`、`docs/plugin-page.{en,zh-CN}.md`、双语 README、`RELEASE.md`、`MARKETPLACE.md`、`LICENSE`、`screenshots.json`（6 张）及 `.github/workflows/{ci,release}.yml` 就绪。
-- `npm run verify && npm pack --dry-run`（最新运行）：构建 `lib/client.js`（`61666` bytes），发布元数据、`icon`、6 张截图、`screenshots.json`、单色规则与 `13/13` 单元/并发测试全部通过；打包产物不含 `prototype-plugin/`、`test/` 与临时文件。
+- `npm run verify && npm pack --dry-run`（最新运行）：构建 `lib/client.js`（`63476` bytes），发布元数据、`icon`、6 张截图、`screenshots.json`、单色规则与 `13/13` 单元/并发测试全部通过；打包产物不含 `prototype-plugin/`、`test/` 与临时文件。
 - `node plugin/scripts/e2e-autoflow.mjs`（最新隔离真实 DSH 验收，[v2-autoflow-report.json](test-results/v2-autoflow-report.json)）：
   - 日常开发会话未提插件/汇报工具即主动调用 `project_progress_report` 并通过 `exitCode === 0` 证据核对；独立重跑 `node --test` `1/1` 通过（[v2-autoflow-independent.txt](test-results/v2-autoflow-independent.txt)）。
-  - 空项目过滤空白草稿后显示 `已有 1 个历史会话` 与单色可点击真实标题芯片（见 [v2-01-empty-hints.png](previews/v2-01-empty-hints.png)），且在 Playwright 中实测点击历史会话芯片成功跳转至目标会话并保持右侧「项目进度」打开；点击「快速初始化」写入 `16px` 目标；浅/深色 `16px` Tab 图标切换正常，浏览器错误 `0`。
+  - 空项目过滤空白草稿后显示 `已有 1 个历史会话` 与全宽单色纵向可点击列表（见 [v2-01-empty-hints.png](previews/v2-01-empty-hints.png)），且在 Playwright 中实测点击历史会话行成功跳转至目标会话并保持右侧「项目进度」打开；点击「快速初始化」写入 `16px` 目标；浅/深色 `16px` Tab 图标切换正常，浏览器错误 `0`。
 - `node plugin/scripts/e2e-dsh.mjs`（全量 `AC-01`–`AC-08` 回归通过，[v1-e2e-report.json](test-results/v1-e2e-report.json)）：覆盖空态、三会话、手动锁定防覆盖与恢复（且子任务自动遵循不覆写项目目标与验收标准规则）、完成/验收分离、跨会话保持、重启恢复、拖宽保持与隔离清理（原 `~/.dsh` SHA-256 一致）。
 - **正式环境安装状态**：`desktop` Profile 软链 `~/.dsh/profiles/desktop/node_modules/dsh-slate` 已指向更新后的 `plugin/`；`web` Profile 因既有 `dsh-worktable` 校验和冲突保持未改动；Git 仅本地提交，未推送未发布。
 
 ## 下一步（如后续迭代）
 
-- 用户**重启 DeepSeek Harness 桌面端**后复测一轮：确认插件详情页中英切换正常、已开发项目的跨会话/子任务汇报正常，且未初始化工作区（如 `EasyRight`）显示 `已有 5 个历史会话` 及可点击真实标题（已归档/无日志历史会话不再混入）。
+- 用户**刷新/重启 DeepSeek Harness 桌面端**后继续第 1–5 步复测：重点确认 `EasyRight` 空态显示 `已有 5 个历史会话` 全宽纵向列表与右上角 `展开其余 2 个` / `收起` 切换、以及一键「快速初始化」和后续跨会话/子任务汇报。
 - 确认通过后按 [MARKETPLACE.md](MARKETPLACE.md) 执行：创建 GitHub 公开仓库并推送 `main` → 配置 npm OIDC Trusted Publishing → 发布 `v0.1.0` Release 自动发布 npm → 向 `awesome-dsh-plugin` 提交 `light-cheng__DSH-Slate.yml`。
